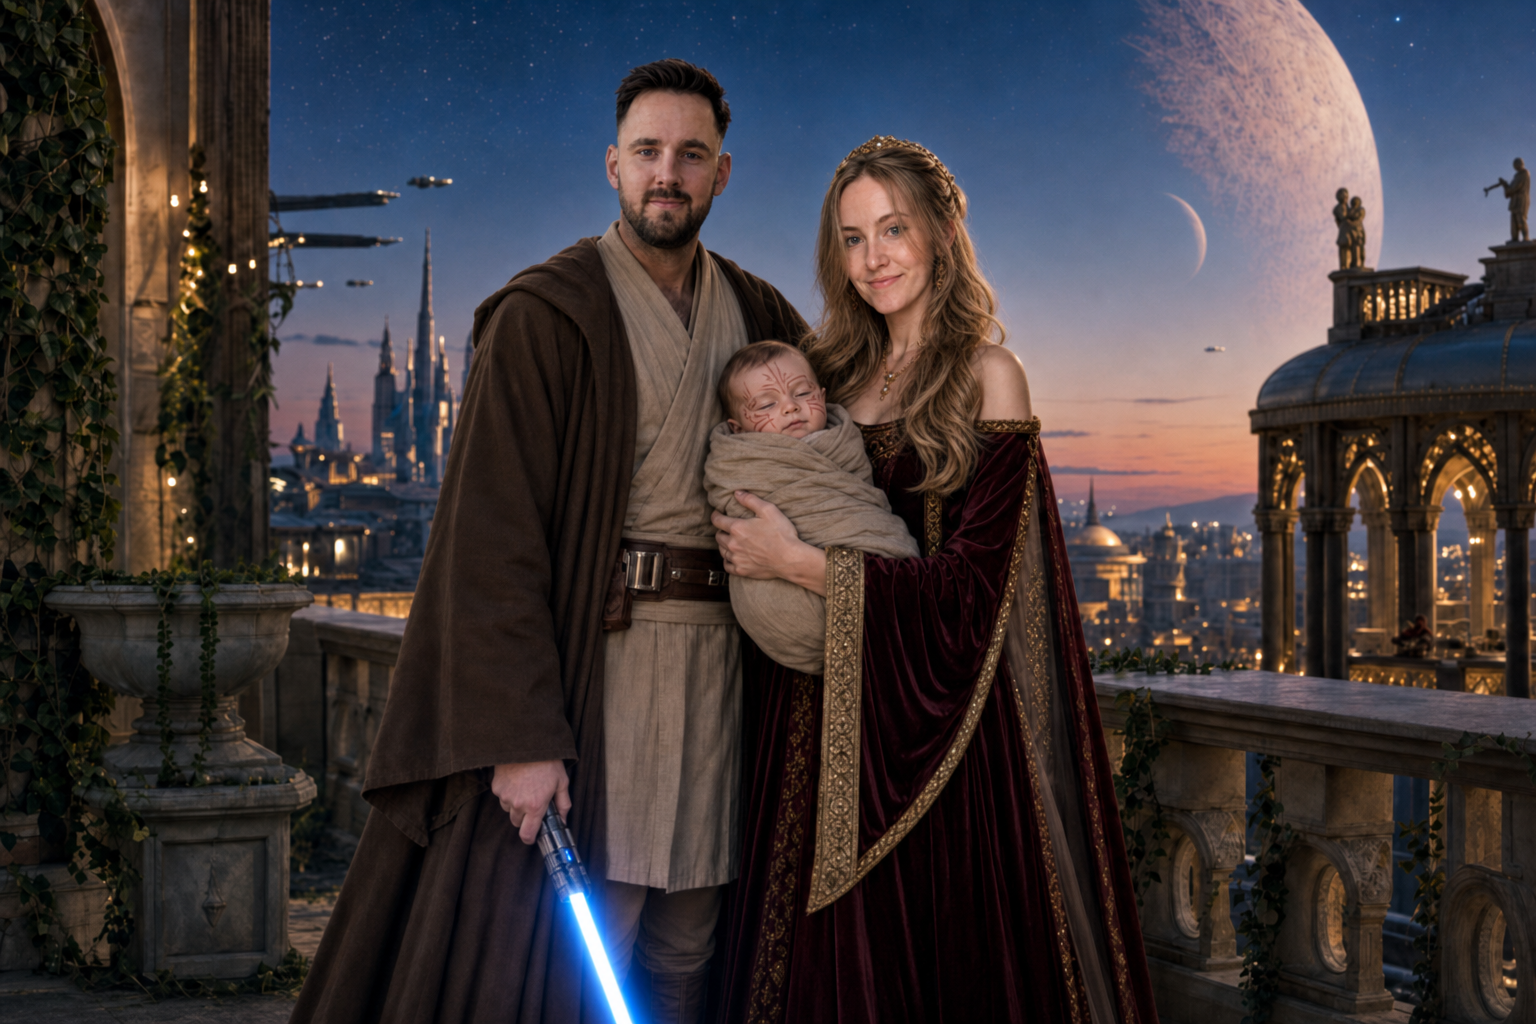
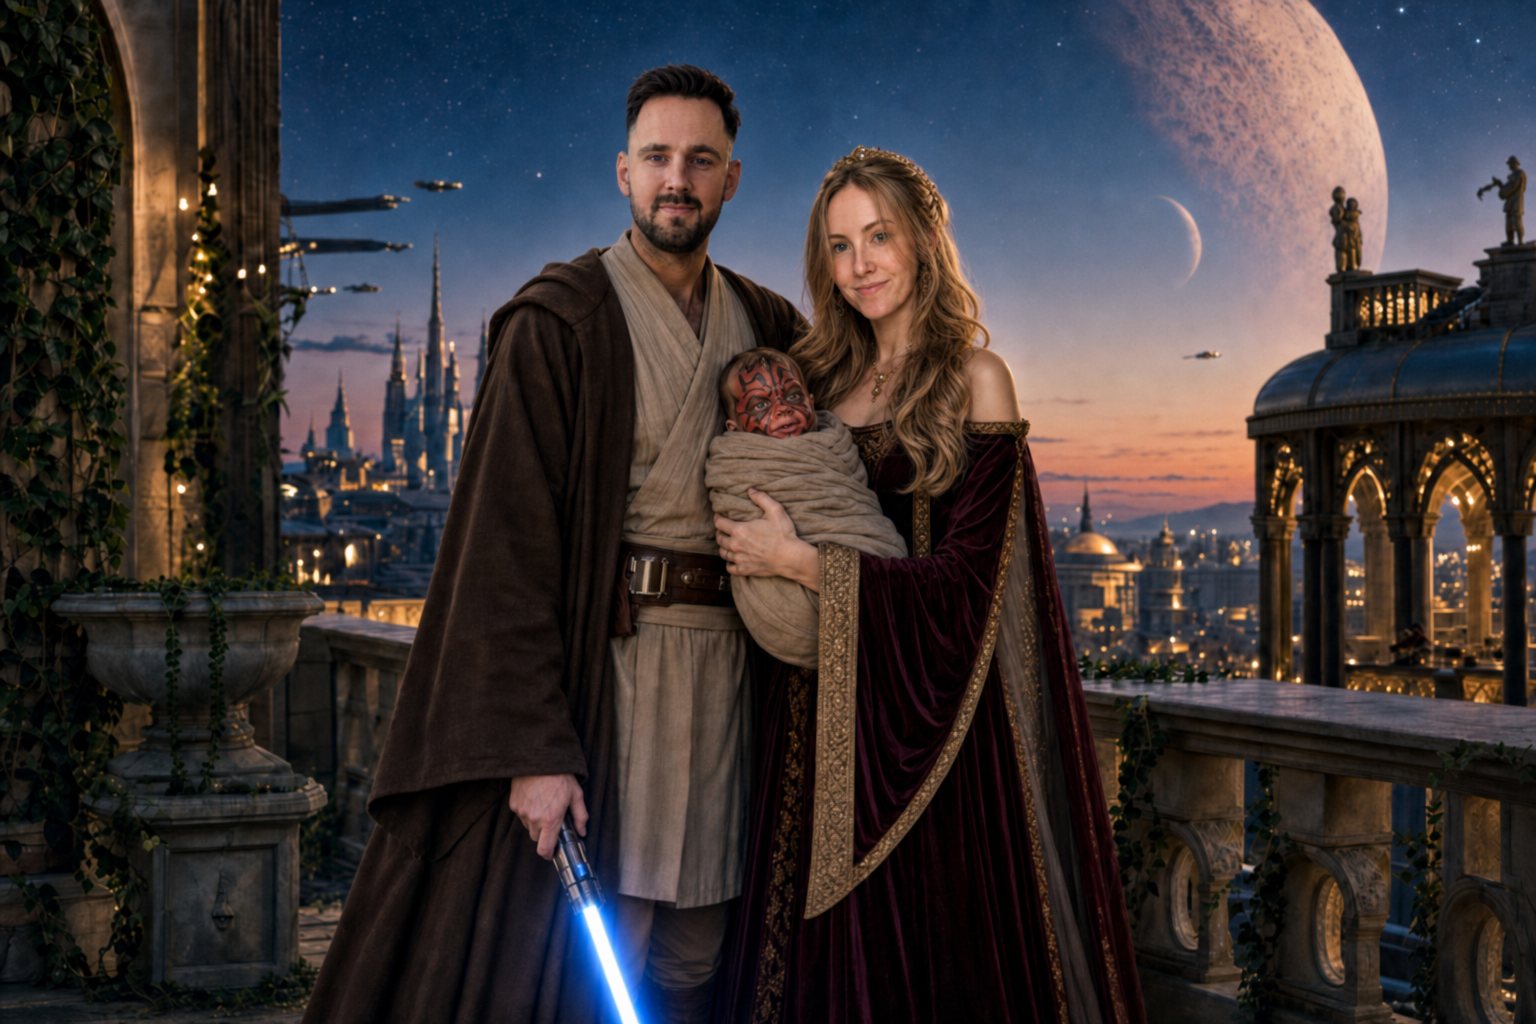
Vernieuw beide morph-frames met duidelijkere Darth Maul-markeringen op het babygezicht, zonder enge grijns.

diff --git a/index.html b/index.html
@@ -307,12 +307,12 @@
       <div class="reveal-fotos">
         <figure class="reveal-foto reveal-morph">
           <img
-            src="fotos/max-marjean-baby-reveal-normaal.png?v=2"
-            alt="Max en Marjean met hun zoon: eerst een rustig gezicht, dan een vleugje dark side"
+            src="fotos/max-marjean-baby-reveal-normaal.png?v=3"
+            alt="Max en Marjean met hun zoon: eerst een rustig babygezicht, dan Darth Maul-markeringen"
           />
           <img
             class="reveal-morph-grin"
-            src="fotos/max-marjean-baby-reveal-greins.png?v=3"
+            src="fotos/max-marjean-baby-reveal-greins.png?v=4"
             alt=""
             aria-hidden="true"
           />
